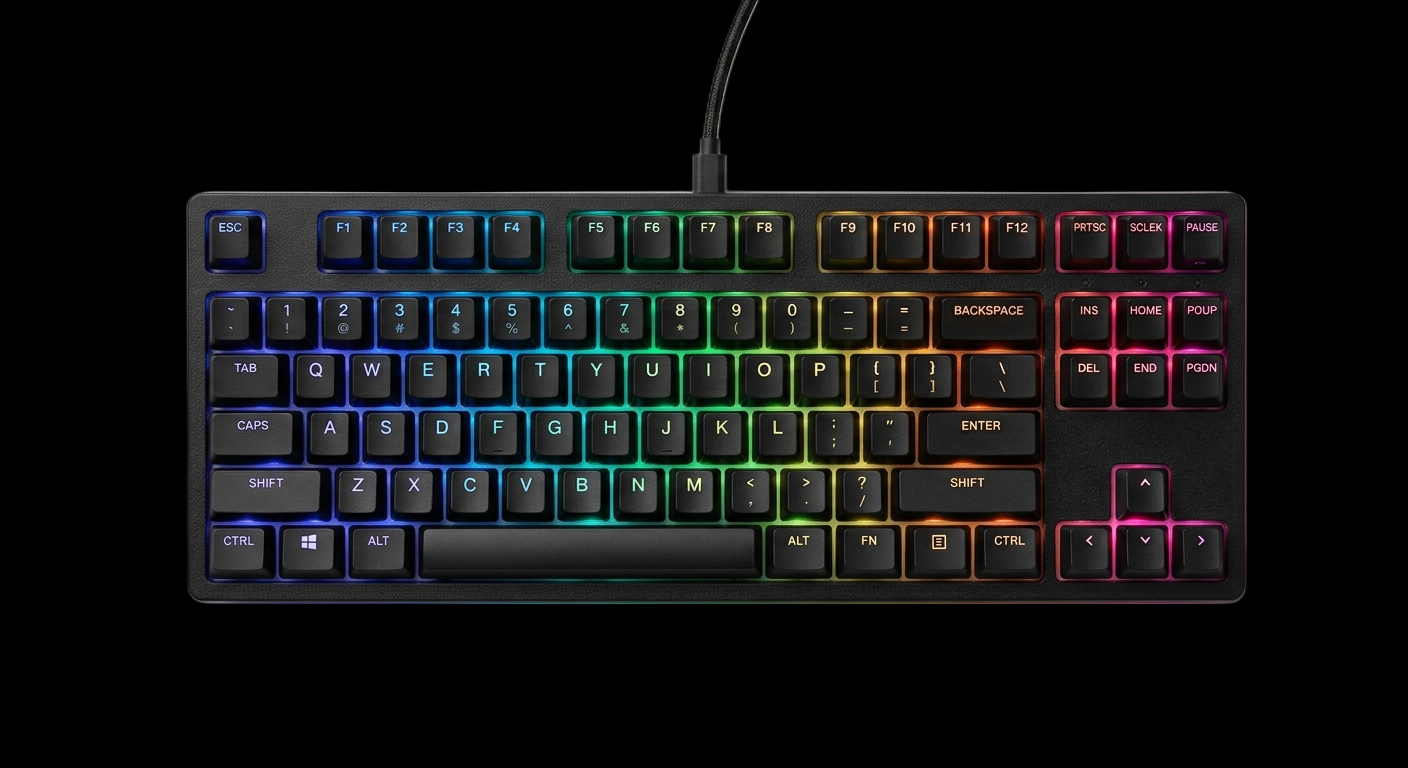
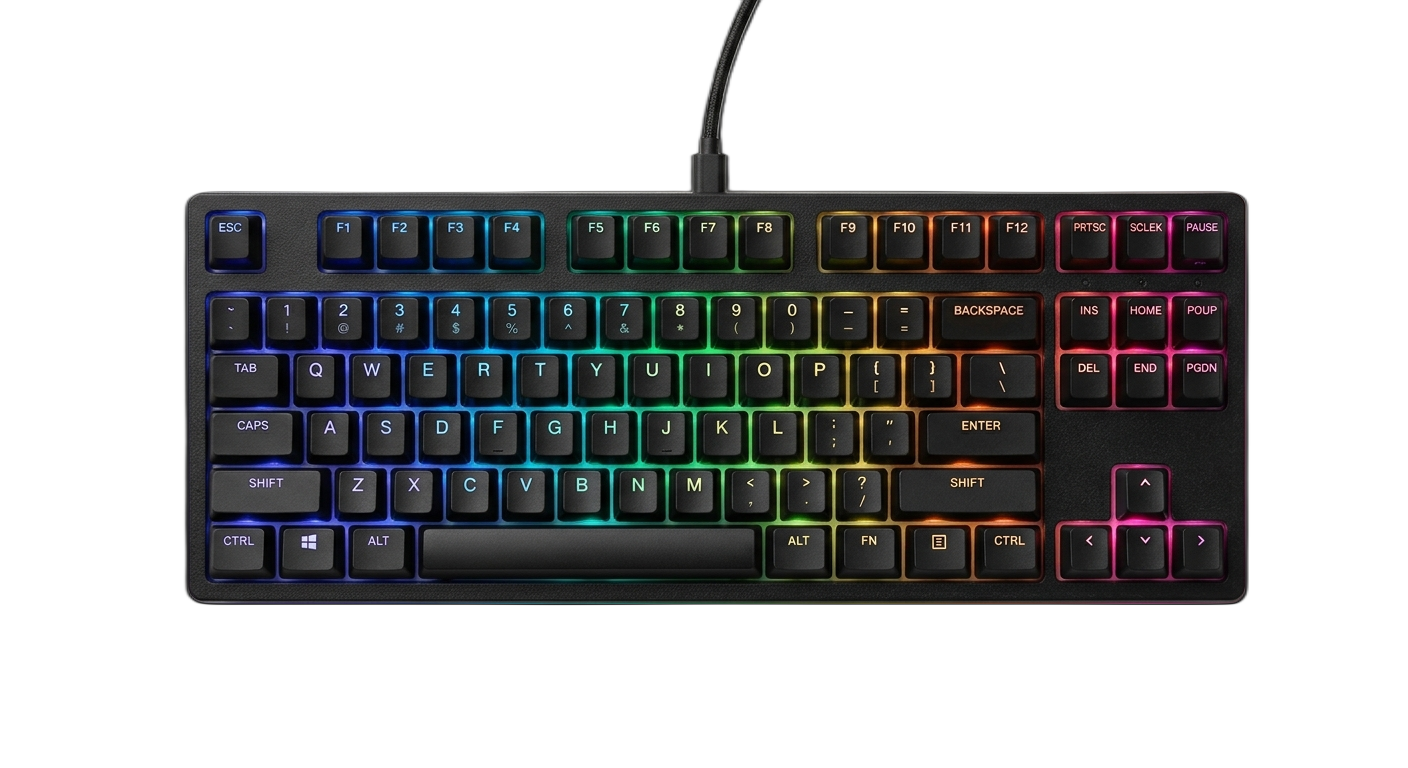
shayan786

diff --git a/index.html b/index.html
@@ -105,10 +105,9 @@ designed for work, gaming, and everyday use.
           <div class="card" style="width: 18rem;">
             <img src="image/card 1.png" class="card-img-top" alt="...">
             <div class="card-body">
-              <h5 class="card-title">Card title</h5>
-              <p class="card-text">Some quick example text to build on the card title and make up the bulk of the card’s
-                content.</p>
-              <a href="#" class="btn btn-primary">Go somewhere</a>
+              <h5 class="card-title">RGB Gaming Keyboard</h5>
+              <p class="card-text">Upgrade your setup with a stylish RGB Gaming Keyboard featuring vibrant lighting, fast response, and smooth performance.</p>
+              <a href="#" class="btn btn-primary">Buy Now</a>
             </div>
           </div>
           </div>
@@ -126,7 +125,7 @@ designed for work, gaming, and everyday use.
            <!---3---->
         <div class="col-sm-12 col-md-6 col-lg-4">
           <div class="card" style="width: 18rem;">
-            <img src="image/card three.png" class="card-img-top" alt="..." height="150px">
+            <img src="image/card 3.png" class="card-img-top" alt="..." height="150px">
             <div class="card-body">
               <h5 class="card-title">Card title</h5>
               <p class="card-text">Some quick example text to build on the card title and make up the bulk of the card’s
@@ -138,7 +137,7 @@ designed for work, gaming, and everyday use.
            <!---4---->
         <div class="col-sm-12 col-md-6 col-lg-4">
           <div class="card" style="width: 18rem;">
-            <img src="..." class="card-img-top" alt="...">
+            <img src="image/card 4.jpg" class="card-img-top" alt="...">
             <div class="card-body">
               <h5 class="card-title">Card title</h5>
               <p class="card-text">Some quick example text to build on the card title and make up the bulk of the card’s
@@ -150,7 +149,7 @@ designed for work, gaming, and everyday use.
            <!---5---->
         <div class="col-sm-12 col-md-6 col-lg-4">
           <div class="card" style="width: 18rem;">
-            <img src="..." class="card-img-top" alt="...">
+            <img src="image/card 5.jpg" class="card-img-top" alt="...">
             <div class="card-body">
               <h5 class="card-title">Card title</h5>
               <p class="card-text">Some quick example text to build on the card title and make up the bulk of the card’s
@@ -162,7 +161,7 @@ designed for work, gaming, and everyday use.
            <!---6---->
         <div class="col-sm-12 col-md-6 col-lg-4">
           <div class="card" style="width: 18rem;">
-            <img src="..." class="card-img-top" alt="...">
+            <img src="image/card 6.jpg" class="card-img-top" alt="...">
             <div class="card-body">
               <h5 class="card-title">Card title</h5>
               <p class="card-text">Some quick example text to build on the card title and make up the bulk of the card’s

diff --git a/style.css b/style.css
@@ -56,6 +56,7 @@
 }
 .color{background-color: black;
 
+
 }
 
 
@@ -63,16 +64,19 @@
 .card image {
     border-radius: 50px;
     
+    
 
 }
 
 .card:hover {
     transform: translateY(-8px);
-    box-shadow:  0 0 20px white;
+    box-shadow:  0 0 50px white;
+    
 
 }
 .card{
     background-color: black;
     color: #f8f9fa;
+
 
 }